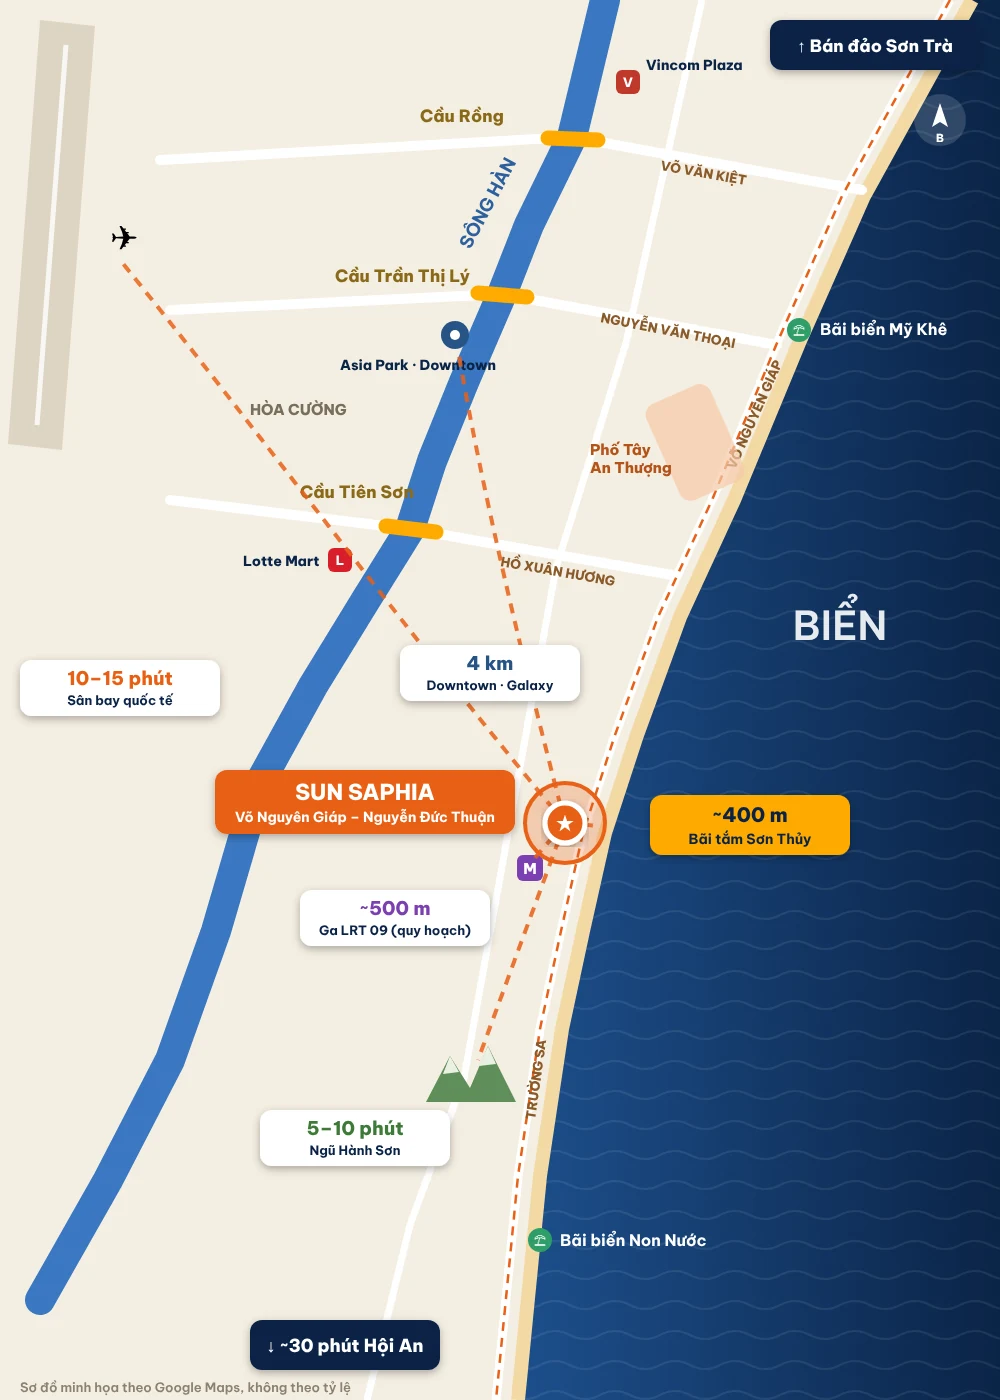
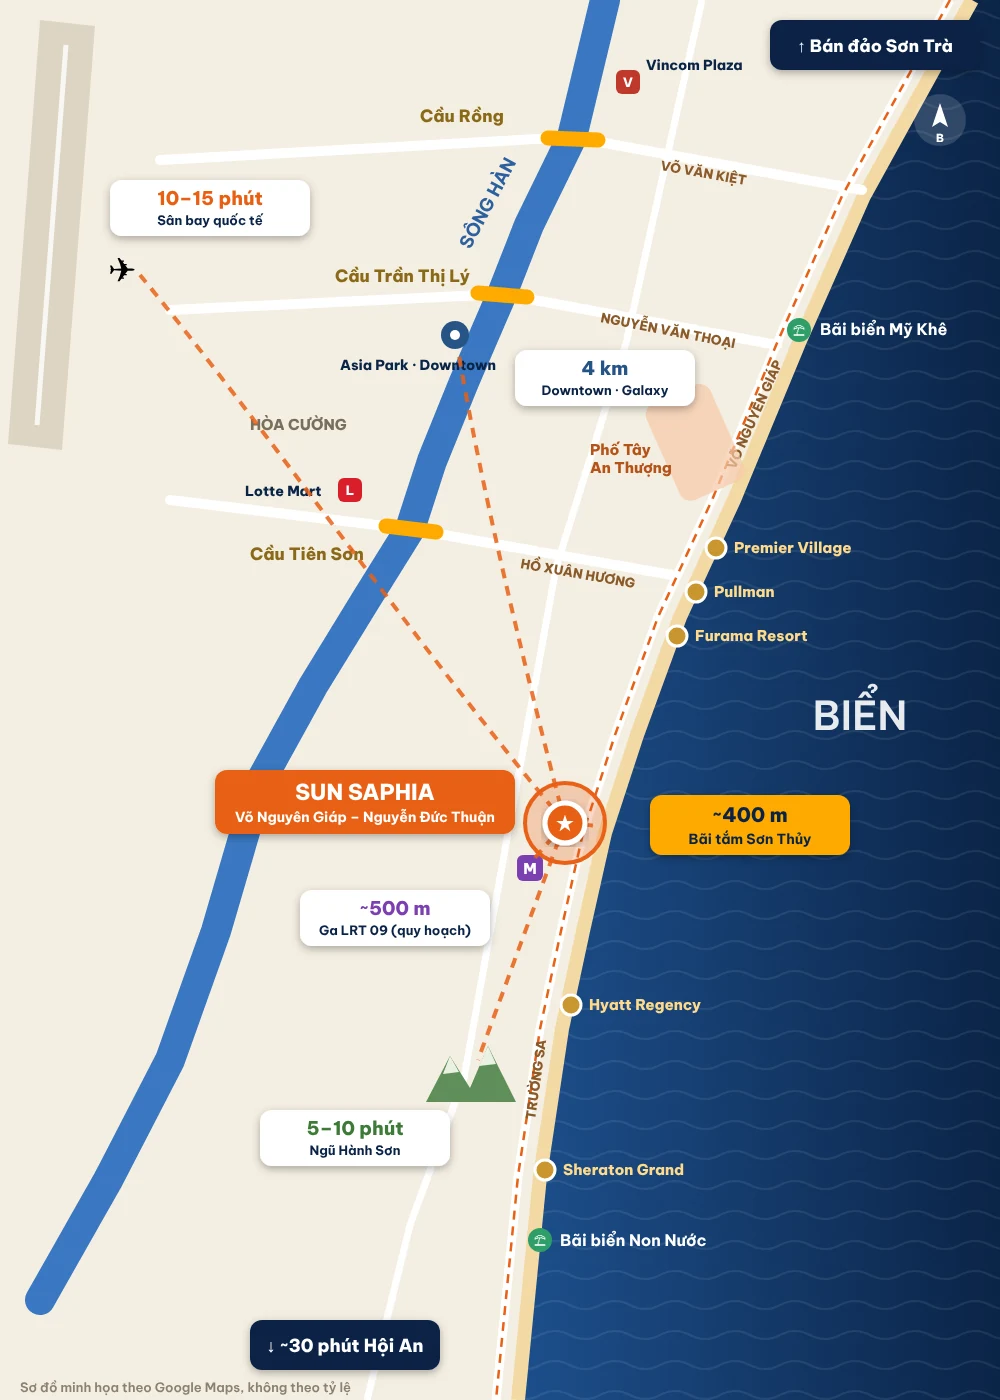
Sun Saphia: sơ đồ vị trí sửa vị trí sân bay, Lotte Mart, Downtown; thêm resort ven biển và bản ngang cho máy tính
Claude-Session: https://claude.ai/code/session_01QqqhqeJL7dLdZQGmjqHGDV

diff --git a/landing/sun-saphia/seo/anh-dang-page/nguon-so-do-vi-tri.html b/landing/sun-saphia/seo/anh-dang-page/nguon-so-do-vi-tri.html
@@ -1,6 +1,5 @@
 <!doctype html><html><head><meta charset="utf-8"><link href="https://fonts.googleapis.com/css2?family=Be+Vietnam+Pro:wght@600;700;800&family=Fahkwang:wght@400&display=swap" rel="stylesheet">
-<style>*{margin:0}#c{width:1000px;height:1400px}text{font-family:"Be Vietnam Pro",sans-serif}</style></head><body><div id="c">
-<svg width="1000" height="1400" viewBox="0 0 1000 1400">
+<style>*{margin:0}#c{width:1000px;height:1400px}text{font-family:"Be Vietnam Pro",sans-serif}</style></head><body><style>#l .po{display:none}</style><div><svg id="p" width="1000" height="1400" viewBox="0 0 1000 1400">
 <defs><linearGradient id="sea" x1="0" x2="1"><stop offset="0" stop-color="#1d4f8c"/><stop offset="1" stop-color="#0B2447"/></linearGradient>
 <pattern id="wv" width="60" height="30" patternUnits="userSpaceOnUse"><path d="M0 15 q15 -8 30 0 t30 0" fill="none" stroke="rgba(255,255,255,.08)" stroke-width="2"/></pattern>
 <filter id="sh"><feDropShadow dx="0" dy="3" stdDeviation="4" flood-opacity=".3"/></filter></defs>
@@ -11,7 +10,7 @@
 <polyline points="972,0 864,196 799,343 734,500 680,617 637,735 605,833 583,931 562,1029 540,1176 518,1400" fill="none" stroke="#F3D9A4" stroke-width="14" stroke-linejoin="round"/>
 <!-- airport -->
 <polygon points="40,20 95,26 62,450 8,444" fill="#ddd5c3"/><line x1="66" y1="45" x2="37" y2="425" stroke="#fff" stroke-width="5" opacity=".8"/>
-<text x="110" y="250" font-size="34">✈</text>
+<text x="108" y="282" font-size="34">✈</text>
 <!-- river -->
 <polyline points="605,0 572,137 529,225 502,294 464,382 432,461 410,529 367,598 313,686 259,784 216,931 170,1060 108,1180 40,1300" fill="none" stroke="#3a78c2" stroke-width="30" stroke-linecap="round" stroke-linejoin="round"/>
 <text x="470" y="250" font-size="18" font-weight="700" fill="#2c5f9e" transform="rotate(-62 470 250)">SÔNG HÀN</text>
@@ -29,11 +28,11 @@
 <line x1="386" y1="526" x2="436" y2="532" stroke="#FFAA01" stroke-width="15"/></g>
 <text x="420" y="122" font-size="17" font-weight="800" fill="#8a6a1a">Cầu Rồng</text>
 <text x="335" y="282" font-size="17" font-weight="800" fill="#8a6a1a">Cầu Trần Thị Lý</text>
-<text x="300" y="498" font-size="17" font-weight="800" fill="#8a6a1a">Cầu Tiên Sơn</text>
+<text x="250" y="560" font-size="17" font-weight="800" fill="#8a6a1a">Cầu Tiên Sơn</text>
 <!-- road names -->
 <text x="660" y="170" font-size="13" font-weight="800" fill="#8a5a2a" transform="rotate(10 660 170)">VÕ VĂN KIỆT</text>
 <text x="600" y="322" font-size="13" font-weight="800" fill="#8a5a2a" transform="rotate(11 600 322)">NGUYỄN VĂN THOẠI</text>
-<text x="500" y="566" font-size="13" font-weight="800" fill="#8a5a2a" transform="rotate(10 500 566)">HỒ XUÂN HƯƠNG</text>
+<text x="520" y="568" font-size="13" font-weight="800" fill="#8a5a2a" transform="rotate(10 520 568)">HỒ XUÂN HƯƠNG</text>
 <!-- coastal road -->
 <polyline points="950,0 842,196 777,343 712,500 658,617 615,735 583,833 561,931 540,1029 518,1176 496,1400" fill="none" stroke="#fff" stroke-width="9" stroke-linejoin="round"/>
 <polyline points="950,0 842,196 777,343 712,500 658,617 615,735 583,833 561,931 540,1029 518,1176 496,1400" fill="none" stroke="#E96118" stroke-width="2.5" stroke-dasharray="9 7"/>
@@ -45,12 +44,12 @@
 <g font-weight="800" font-size="14">
 <g transform="translate(628,82)"><rect x="-12" y="-12" width="24" height="24" rx="6" fill="#c0392b"/><text y="5" fill="#fff" text-anchor="middle" font-size="13">V</text></g>
 <text x="646" y="70" fill="#0B2447">Vincom Plaza</text>
-<g transform="translate(340,560)"><rect x="-12" y="-12" width="24" height="24" rx="6" fill="#d81e2a"/><text y="5" fill="#fff" text-anchor="middle" font-size="13">L</text></g>
-<text x="243" y="566" fill="#0B2447">Lotte Mart</text>
+<g transform="translate(350,490)"><rect x="-12" y="-12" width="24" height="24" rx="6" fill="#d81e2a"/><text y="5" fill="#fff" text-anchor="middle" font-size="13">L</text></g>
+<text x="245" y="496" fill="#0B2447">Lotte Mart</text>
 <g transform="translate(455,335)"><circle r="14" fill="#275286"/><circle r="5" fill="#fff"/></g>
 <text x="340" y="370" fill="#0B2447">Asia Park · Downtown</text>
 <text x="590" y="455" fill="#b4531a" font-size="15">Phố Tây</text><text x="590" y="473" fill="#b4531a" font-size="15">An Thượng</text>
-<text x="250" y="415" fill="#7a6f5c" font-size="15">HÒA CƯỜNG</text>
+<text x="250" y="430" fill="#7a6f5c" font-size="15">HÒA CƯỜNG</text>
 </g>
 <g transform="translate(799,330)"><circle r="12" fill="#2f9e6a"/><text y="5" font-size="12" text-anchor="middle" fill="#fff">⛱</text></g>
 <text x="820" y="335" font-size="16" font-weight="700" fill="#fff">Bãi biển Mỹ Khê</text>
@@ -59,21 +58,97 @@
 <!-- Ngu Hanh Son -->
 <g transform="translate(470,1080)"><path d="M-44 22 L-20 -24 L0 8 L18 -34 L46 22 Z" fill="#5f8f5a"/><path d="M-20 -24 L-11 -8 L-27 -6 Z M18 -34 L26 -16 L9 -14 Z" fill="#e9f1e2"/></g>
 <g transform="translate(530,868)"><rect x="-13" y="-13" width="26" height="26" rx="6" fill="#7b3fb0"/><text y="6" font-size="15" fill="#fff" text-anchor="middle" font-weight="800">M</text></g>
-<!-- links -->
+<g font-family="Be Vietnam Pro"><g transform="translate(716,548)"><circle r="10" fill="#C9962E" stroke="#fff" stroke-width="3"/></g><text x="734" y="553" font-size="15" font-weight="800" fill="#FFD98A">Premier Village</text><g transform="translate(696,592)"><circle r="10" fill="#C9962E" stroke="#fff" stroke-width="3"/></g><text x="714" y="597" font-size="15" font-weight="800" fill="#FFD98A">Pullman</text><g transform="translate(677,636)"><circle r="10" fill="#C9962E" stroke="#fff" stroke-width="3"/></g><text x="695" y="641" font-size="15" font-weight="800" fill="#FFD98A">Furama Resort</text><g transform="translate(571,1005)"><circle r="10" fill="#C9962E" stroke="#fff" stroke-width="3"/></g><text x="589" y="1010" font-size="15" font-weight="800" fill="#FFD98A">Hyatt Regency</text><g transform="translate(545,1170)"><circle r="10" fill="#C9962E" stroke="#fff" stroke-width="3"/></g><text x="563" y="1175" font-size="15" font-weight="800" fill="#FFD98A">Sheraton Grand</text></g><!-- links -->
 <g stroke="#E96118" stroke-width="4" stroke-dasharray="10 8" fill="none" opacity=".85">
-<path d="M565 823 C420 650 250 420 120 260"/><path d="M565 823 C520 650 480 480 458 350"/><path d="M565 823 L598 826"/><path d="M565 823 L533 860"/><path d="M565 823 L478 1060"/></g>
+<path d="M565 823 C420 650 260 420 140 275"/><path d="M565 823 C520 650 480 480 458 350"/><path d="M565 823 L598 826"/><path d="M565 823 L533 860"/><path d="M565 823 L478 1060"/></g>
 <circle cx="565" cy="823" r="40" fill="rgba(233,97,24,.25)" stroke="#E96118" stroke-width="4"/>
 <circle cx="565" cy="823" r="20" fill="#E96118" stroke="#fff" stroke-width="5" filter="url(#sh)"/><text x="565" y="831" font-size="20" text-anchor="middle" fill="#fff">★</text>
 <g filter="url(#sh)" font-weight="800">
 <rect x="215" y="770" width="300" height="64" rx="12" fill="#E96118"/><text x="365" y="800" font-size="22" fill="#fff" text-anchor="middle">SUN SAPHIA</text><text x="365" y="822" font-size="14" fill="#fff" text-anchor="middle" font-weight="700">Võ Nguyên Giáp – Nguyễn Đức Thuận</text>
 <rect x="650" y="795" width="200" height="60" rx="12" fill="#FFAA01"/><text x="750" y="822" font-size="20" fill="#0B2447" text-anchor="middle">~400 m</text><text x="750" y="844" font-size="14" fill="#0B2447" text-anchor="middle" font-weight="700">Bãi tắm Sơn Thủy</text>
 <rect x="300" y="890" width="190" height="56" rx="12" fill="#fff"/><text x="395" y="915" font-size="19" fill="#7b3fb0" text-anchor="middle">~500 m</text><text x="395" y="935" font-size="13" fill="#0B2447" text-anchor="middle" font-weight="700">Ga LRT 09 (quy hoạch)</text>
-<rect x="260" y="1110" width="190" height="56" rx="12" fill="#fff"/><text x="355" y="1135" font-size="19" fill="#3d7a38" text-anchor="middle">5–10 phút</text><text x="355" y="1155" font-size="13" fill="#0B2447" text-anchor="middle" font-weight="700">Ngũ Hành Sơn</text>
-<rect x="400" y="645" width="180" height="56" rx="12" fill="#fff"/><text x="490" y="670" font-size="19" fill="#275286" text-anchor="middle">4 km</text><text x="490" y="690" font-size="13" fill="#0B2447" text-anchor="middle" font-weight="700">Downtown · Galaxy</text>
-<rect x="20" y="660" width="200" height="56" rx="12" fill="#fff"/><text x="120" y="685" font-size="19" fill="#E96118" text-anchor="middle">10–15 phút</text><text x="120" y="705" font-size="13" fill="#0B2447" text-anchor="middle" font-weight="700">Sân bay quốc tế</text>
-<rect x="250" y="1320" width="190" height="50" rx="12" fill="#0B2447"/><text x="345" y="1352" font-size="18" fill="#fff" text-anchor="middle">↓ ~30 phút Hội An</text>
-<rect x="770" y="20" width="210" height="50" rx="12" fill="#0B2447"/><text x="875" y="52" font-size="17" fill="#fff" text-anchor="middle">↑ Bán đảo Sơn Trà</text></g>
-<text x="840" y="640" font-family="Fahkwang" font-size="40" fill="rgba(255,255,255,.9)" text-anchor="middle">BIỂN</text>
+<g class="po"><rect x="260" y="1110" width="190" height="56" rx="12" fill="#fff"/><text x="355" y="1135" font-size="19" fill="#3d7a38" text-anchor="middle">5–10 phút</text><text x="355" y="1155" font-size="13" fill="#0B2447" text-anchor="middle" font-weight="700">Ngũ Hành Sơn</text></g>
+<rect x="515" y="350" width="180" height="56" rx="12" fill="#fff"/><text x="605" y="375" font-size="19" fill="#275286" text-anchor="middle">4 km</text><text x="605" y="395" font-size="13" fill="#0B2447" text-anchor="middle" font-weight="700">Downtown · Galaxy</text>
+<rect x="110" y="180" width="200" height="56" rx="12" fill="#fff"/><text x="210" y="205" font-size="19" fill="#E96118" text-anchor="middle">10–15 phút</text><text x="210" y="225" font-size="13" fill="#0B2447" text-anchor="middle" font-weight="700">Sân bay quốc tế</text>
+<g class="po"><rect x="250" y="1320" width="190" height="50" rx="12" fill="#0B2447"/><text x="345" y="1352" font-size="18" fill="#fff" text-anchor="middle">↓ ~30 phút Hội An</text></g>
+<g class="po"><rect x="770" y="20" width="210" height="50" rx="12" fill="#0B2447"/><text x="875" y="52" font-size="17" fill="#fff" text-anchor="middle">↑ Bán đảo Sơn Trà</text></g></g>
+<text x="860" y="730" font-family="Fahkwang" font-size="40" fill="rgba(255,255,255,.9)" text-anchor="middle">BIỂN</text>
 <g transform="translate(940,120)"><circle r="26" fill="rgba(255,255,255,.15)"/><path d="M0 -17 L8 7 L0 2 L-8 7 Z" fill="#fff"/><text y="22" font-size="11" fill="#fff" text-anchor="middle" font-weight="800">B</text></g>
 <text x="20" y="1392" font-size="13" font-weight="600" fill="#8a8170">Sơ đồ minh họa theo Google Maps, không theo tỷ lệ</text>
-</svg></div></body></html>
+</svg><svg id="l" width="1600" height="900" viewBox="0 0 1600 900"><defs><linearGradient id="sea" x1="0" x2="1"><stop offset="0" stop-color="#1d4f8c"/><stop offset="1" stop-color="#0B2447"/></linearGradient>
+<pattern id="wv" width="60" height="30" patternUnits="userSpaceOnUse"><path d="M0 15 q15 -8 30 0 t30 0" fill="none" stroke="rgba(255,255,255,.08)" stroke-width="2"/></pattern>
+<filter id="sh"><feDropShadow dx="0" dy="3" stdDeviation="4" flood-opacity=".3"/></filter></defs><clipPath id="cp"><rect x="600" y="0" width="1000" height="900"/></clipPath><rect x="600" width="1000" height="900" fill="url(#sea)"/><g clip-path="url(#cp)"><g transform="translate(600,-48)">
+
+<rect width="1000" height="1400" fill="#F4EEE2"/>
+<!-- sea -->
+<path d="M972 0 L864 196 L799 343 L734 500 L680 617 L637 735 L605 833 L583 931 L562 1029 L540 1176 L518 1400 H1000 V0 Z" fill="url(#sea)"/>
+<path d="M972 0 L864 196 L799 343 L734 500 L680 617 L637 735 L605 833 L583 931 L562 1029 L540 1176 L518 1400 H1000 V0 Z" fill="url(#wv)"/>
+<polyline points="972,0 864,196 799,343 734,500 680,617 637,735 605,833 583,931 562,1029 540,1176 518,1400" fill="none" stroke="#F3D9A4" stroke-width="14" stroke-linejoin="round"/>
+<!-- airport -->
+<polygon points="40,20 95,26 62,450 8,444" fill="#ddd5c3"/><line x1="66" y1="45" x2="37" y2="425" stroke="#fff" stroke-width="5" opacity=".8"/>
+<text x="108" y="282" font-size="34">✈</text>
+<!-- river -->
+<polyline points="605,0 572,137 529,225 502,294 464,382 432,461 410,529 367,598 313,686 259,784 216,931 170,1060 108,1180 40,1300" fill="none" stroke="#3a78c2" stroke-width="30" stroke-linecap="round" stroke-linejoin="round"/>
+<text x="470" y="250" font-size="18" font-weight="700" fill="#2c5f9e" transform="rotate(-62 470 250)">SÔNG HÀN</text>
+<!-- main inland road (Ngo Quyen / Le Van Hien) -->
+<polyline points="702,0 680,98 626,343 556,568 508,833 464,1078 410,1225 367,1400" fill="none" stroke="#fff" stroke-width="7" stroke-linejoin="round"/>
+<!-- cross roads -->
+<g fill="none" stroke="#fff" stroke-width="10" stroke-linecap="round">
+<polyline points="160,160 572,137 862,190"/>
+<polyline points="170,310 502,294 777,345"/>
+<polyline points="170,500 410,529 672,575"/>
+</g>
+<!-- bridges -->
+<g stroke-linecap="round"><line x1="548" y1="138" x2="598" y2="140" stroke="#FFAA01" stroke-width="15"/>
+<line x1="478" y1="293" x2="527" y2="297" stroke="#FFAA01" stroke-width="15"/>
+<line x1="386" y1="526" x2="436" y2="532" stroke="#FFAA01" stroke-width="15"/></g>
+<text x="420" y="122" font-size="17" font-weight="800" fill="#8a6a1a">Cầu Rồng</text>
+<text x="335" y="282" font-size="17" font-weight="800" fill="#8a6a1a">Cầu Trần Thị Lý</text>
+<text x="250" y="560" font-size="17" font-weight="800" fill="#8a6a1a">Cầu Tiên Sơn</text>
+<!-- road names -->
+<text x="660" y="170" font-size="13" font-weight="800" fill="#8a5a2a" transform="rotate(10 660 170)">VÕ VĂN KIỆT</text>
+<text x="600" y="322" font-size="13" font-weight="800" fill="#8a5a2a" transform="rotate(11 600 322)">NGUYỄN VĂN THOẠI</text>
+<text x="520" y="568" font-size="13" font-weight="800" fill="#8a5a2a" transform="rotate(10 520 568)">HỒ XUÂN HƯƠNG</text>
+<!-- coastal road -->
+<polyline points="950,0 842,196 777,343 712,500 658,617 615,735 583,833 561,931 540,1029 518,1176 496,1400" fill="none" stroke="#fff" stroke-width="9" stroke-linejoin="round"/>
+<polyline points="950,0 842,196 777,343 712,500 658,617 615,735 583,833 561,931 540,1029 518,1176 496,1400" fill="none" stroke="#E96118" stroke-width="2.5" stroke-dasharray="9 7"/>
+<text x="735" y="470" font-size="13" font-weight="800" fill="#8a5a2a" transform="rotate(-66 735 470)">VÕ NGUYÊN GIÁP</text>
+<text x="535" y="1120" font-size="13" font-weight="800" fill="#8a5a2a" transform="rotate(-82 535 1120)">TRƯỜNG SA</text>
+<!-- An Thuong -->
+<rect x="660" y="390" width="70" height="105" rx="12" fill="#f6c9a8" opacity=".7" transform="rotate(-24 695 442)"/>
+<!-- POIs -->
+<g font-weight="800" font-size="14">
+<g transform="translate(628,82)"><rect x="-12" y="-12" width="24" height="24" rx="6" fill="#c0392b"/><text y="5" fill="#fff" text-anchor="middle" font-size="13">V</text></g>
+<text x="646" y="70" fill="#0B2447">Vincom Plaza</text>
+<g transform="translate(350,490)"><rect x="-12" y="-12" width="24" height="24" rx="6" fill="#d81e2a"/><text y="5" fill="#fff" text-anchor="middle" font-size="13">L</text></g>
+<text x="245" y="496" fill="#0B2447">Lotte Mart</text>
+<g transform="translate(455,335)"><circle r="14" fill="#275286"/><circle r="5" fill="#fff"/></g>
+<text x="340" y="370" fill="#0B2447">Asia Park · Downtown</text>
+<text x="590" y="455" fill="#b4531a" font-size="15">Phố Tây</text><text x="590" y="473" fill="#b4531a" font-size="15">An Thượng</text>
+<text x="250" y="430" fill="#7a6f5c" font-size="15">HÒA CƯỜNG</text>
+</g>
+<g transform="translate(799,330)"><circle r="12" fill="#2f9e6a"/><text y="5" font-size="12" text-anchor="middle" fill="#fff">⛱</text></g>
+<text x="820" y="335" font-size="16" font-weight="700" fill="#fff">Bãi biển Mỹ Khê</text>
+<g transform="translate(540,1240)"><circle r="12" fill="#2f9e6a"/><text y="5" font-size="12" text-anchor="middle" fill="#fff">⛱</text></g>
+<text x="560" y="1246" font-size="16" font-weight="700" fill="#fff">Bãi biển Non Nước</text>
+<!-- Ngu Hanh Son -->
+<g transform="translate(470,1080)"><path d="M-44 22 L-20 -24 L0 8 L18 -34 L46 22 Z" fill="#5f8f5a"/><path d="M-20 -24 L-11 -8 L-27 -6 Z M18 -34 L26 -16 L9 -14 Z" fill="#e9f1e2"/></g>
+<g transform="translate(530,868)"><rect x="-13" y="-13" width="26" height="26" rx="6" fill="#7b3fb0"/><text y="6" font-size="15" fill="#fff" text-anchor="middle" font-weight="800">M</text></g>
+<g font-family="Be Vietnam Pro"><g transform="translate(716,548)"><circle r="10" fill="#C9962E" stroke="#fff" stroke-width="3"/></g><text x="734" y="553" font-size="15" font-weight="800" fill="#FFD98A">Premier Village</text><g transform="translate(696,592)"><circle r="10" fill="#C9962E" stroke="#fff" stroke-width="3"/></g><text x="714" y="597" font-size="15" font-weight="800" fill="#FFD98A">Pullman</text><g transform="translate(677,636)"><circle r="10" fill="#C9962E" stroke="#fff" stroke-width="3"/></g><text x="695" y="641" font-size="15" font-weight="800" fill="#FFD98A">Furama Resort</text><g transform="translate(571,1005)"><circle r="10" fill="#C9962E" stroke="#fff" stroke-width="3"/></g><text x="589" y="1010" font-size="15" font-weight="800" fill="#FFD98A">Hyatt Regency</text><g transform="translate(545,1170)"><circle r="10" fill="#C9962E" stroke="#fff" stroke-width="3"/></g><text x="563" y="1175" font-size="15" font-weight="800" fill="#FFD98A">Sheraton Grand</text></g><!-- links -->
+<g stroke="#E96118" stroke-width="4" stroke-dasharray="10 8" fill="none" opacity=".85">
+<path d="M565 823 C420 650 260 420 140 275"/><path d="M565 823 C520 650 480 480 458 350"/><path d="M565 823 L598 826"/><path d="M565 823 L533 860"/><path d="M565 823 L478 1060"/></g>
+<circle cx="565" cy="823" r="40" fill="rgba(233,97,24,.25)" stroke="#E96118" stroke-width="4"/>
+<circle cx="565" cy="823" r="20" fill="#E96118" stroke="#fff" stroke-width="5" filter="url(#sh)"/><text x="565" y="831" font-size="20" text-anchor="middle" fill="#fff">★</text>
+<g filter="url(#sh)" font-weight="800">
+<rect x="215" y="770" width="300" height="64" rx="12" fill="#E96118"/><text x="365" y="800" font-size="22" fill="#fff" text-anchor="middle">SUN SAPHIA</text><text x="365" y="822" font-size="14" fill="#fff" text-anchor="middle" font-weight="700">Võ Nguyên Giáp – Nguyễn Đức Thuận</text>
+<rect x="650" y="795" width="200" height="60" rx="12" fill="#FFAA01"/><text x="750" y="822" font-size="20" fill="#0B2447" text-anchor="middle">~400 m</text><text x="750" y="844" font-size="14" fill="#0B2447" text-anchor="middle" font-weight="700">Bãi tắm Sơn Thủy</text>
+<rect x="300" y="890" width="190" height="56" rx="12" fill="#fff"/><text x="395" y="915" font-size="19" fill="#7b3fb0" text-anchor="middle">~500 m</text><text x="395" y="935" font-size="13" fill="#0B2447" text-anchor="middle" font-weight="700">Ga LRT 09 (quy hoạch)</text>
+<g class="po"><rect x="260" y="1110" width="190" height="56" rx="12" fill="#fff"/><text x="355" y="1135" font-size="19" fill="#3d7a38" text-anchor="middle">5–10 phút</text><text x="355" y="1155" font-size="13" fill="#0B2447" text-anchor="middle" font-weight="700">Ngũ Hành Sơn</text></g>
+<rect x="515" y="350" width="180" height="56" rx="12" fill="#fff"/><text x="605" y="375" font-size="19" fill="#275286" text-anchor="middle">4 km</text><text x="605" y="395" font-size="13" fill="#0B2447" text-anchor="middle" font-weight="700">Downtown · Galaxy</text>
+<rect x="110" y="180" width="200" height="56" rx="12" fill="#fff"/><text x="210" y="205" font-size="19" fill="#E96118" text-anchor="middle">10–15 phút</text><text x="210" y="225" font-size="13" fill="#0B2447" text-anchor="middle" font-weight="700">Sân bay quốc tế</text>
+<g class="po"><rect x="250" y="1320" width="190" height="50" rx="12" fill="#0B2447"/><text x="345" y="1352" font-size="18" fill="#fff" text-anchor="middle">↓ ~30 phút Hội An</text></g>
+<g class="po"><rect x="770" y="20" width="210" height="50" rx="12" fill="#0B2447"/><text x="875" y="52" font-size="17" fill="#fff" text-anchor="middle">↑ Bán đảo Sơn Trà</text></g></g>
+<text x="860" y="730" font-family="Fahkwang" font-size="40" fill="rgba(255,255,255,.9)" text-anchor="middle">BIỂN</text>
+<g transform="translate(940,120)"><circle r="26" fill="rgba(255,255,255,.15)"/><path d="M0 -17 L8 7 L0 2 L-8 7 Z" fill="#fff"/><text y="22" font-size="11" fill="#fff" text-anchor="middle" font-weight="800">B</text></g>
+<text x="20" y="1392" font-size="13" font-weight="600" fill="#8a8170">Sơ đồ minh họa theo Google Maps, không theo tỷ lệ</text>
+</g></g><rect width="600" height="900" fill="#0B2447"/><text x="56" y="92" font-size="16" font-weight="800" fill="#FFAA01" letter-spacing="3">VỊ TRÍ</text><text x="56" y="146" font-family="Fahkwang" font-size="40" fill="#fff">Sun Saphia Residence</text><text x="56" y="182" font-size="17" font-weight="600" fill="#C9D6EA">Góc Võ Nguyên Giáp – Nguyễn Đức Thuận, Ngũ Hành Sơn</text><rect x="56" y="225" width="234" height="100" rx="16" fill="#fff"/><rect x="56" y="225" width="234" height="5" rx="2" fill="#E96118"/><text x="76" y="275" font-family="Fahkwang" font-size="32" fill="#0B2447">~400 m</text><text x="76" y="305" font-size="15" font-weight="700" fill="#5a6a80">Bãi tắm Sơn Thủy</text><rect x="306" y="225" width="234" height="100" rx="16" fill="#fff"/><rect x="306" y="225" width="234" height="5" rx="2" fill="#7b3fb0"/><text x="326" y="275" font-family="Fahkwang" font-size="32" fill="#0B2447">~500 m</text><text x="326" y="305" font-size="15" font-weight="700" fill="#5a6a80">Ga LRT 09 (quy hoạch)</text><rect x="56" y="343" width="234" height="100" rx="16" fill="#fff"/><rect x="56" y="343" width="234" height="5" rx="2" fill="#275286"/><text x="76" y="393" font-family="Fahkwang" font-size="32" fill="#0B2447">4 km</text><text x="76" y="423" font-size="15" font-weight="700" fill="#5a6a80">Downtown · Galaxy</text><rect x="306" y="343" width="234" height="100" rx="16" fill="#fff"/><rect x="306" y="343" width="234" height="5" rx="2" fill="#3d7a38"/><text x="326" y="393" font-family="Fahkwang" font-size="32" fill="#0B2447">5–10 phút</text><text x="326" y="423" font-size="15" font-weight="700" fill="#5a6a80">Ngũ Hành Sơn</text><rect x="56" y="461" width="234" height="100" rx="16" fill="#fff"/><rect x="56" y="461" width="234" height="5" rx="2" fill="#E96118"/><text x="76" y="511" font-family="Fahkwang" font-size="32" fill="#0B2447">10–15 phút</text><text x="76" y="541" font-size="15" font-weight="700" fill="#5a6a80">Sân bay quốc tế</text><rect x="306" y="461" width="234" height="100" rx="16" fill="#fff"/><rect x="306" y="461" width="234" height="5" rx="2" fill="#275286"/><text x="326" y="511" font-family="Fahkwang" font-size="32" fill="#0B2447">~30 phút</text><text x="326" y="541" font-size="15" font-weight="700" fill="#5a6a80">Phố cổ Hội An</text><circle cx="68" cy="608" r="9" fill="#C9962E" stroke="#fff" stroke-width="3"/><text x="88" y="614" font-size="16" font-weight="700" fill="#fff">Resort ven biển: Premier Village, Pullman, Furama,</text><text x="88" y="638" font-size="16" font-weight="700" fill="#fff">Hyatt Regency, Sheraton Grand</text><text x="56" y="700" font-family="Fahkwang" font-size="26" fill="#fff">Trước mặt là <tspan fill="#FFAA01">Biển</tspan> · Sau lưng là <tspan fill="#FFAA01">Sông</tspan></text><text x="56" y="738" font-family="Fahkwang" font-size="26" fill="#fff">Bên cạnh là <tspan fill="#FFAA01">Núi</tspan></text><text x="56" y="860" font-size="13" font-weight="600" fill="#8fa3bf">Sơ đồ minh họa theo Google Maps, không theo tỷ lệ</text></svg></div></body></html>
